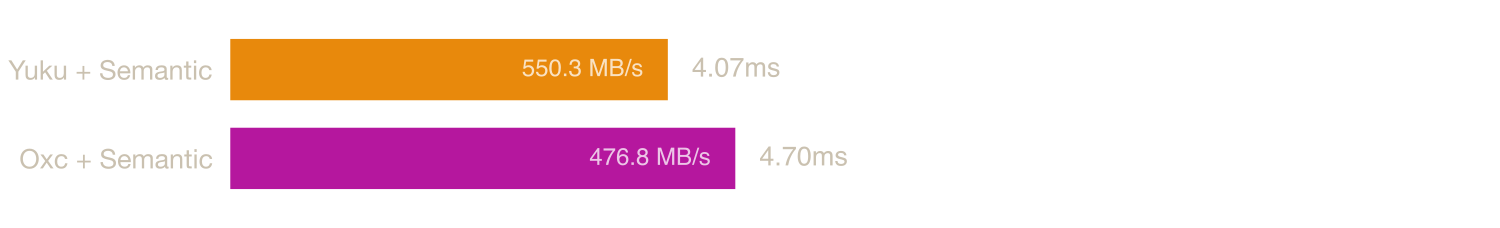
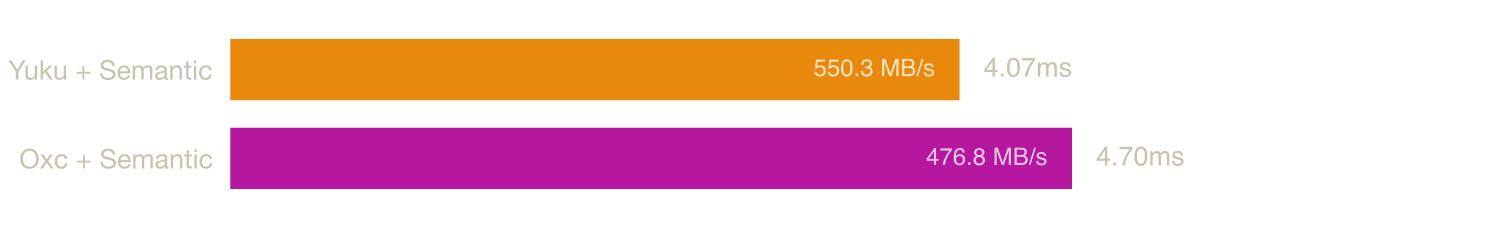
scale charts to small timings

Changed region(s): [[0.368, 0.5526, 0.7973, 0.8289], [0.3373, 0.1535, 0.736, 0.4605]]

diff --git a/scripts/generate-readme.ts b/scripts/generate-readme.ts
@@ -144,9 +144,9 @@ async function generateChart(
   const colors = data.map((e) => CHART_COLORS[e.key] ?? "#888888");
 
   const maxTime = Math.max(...medianData);
-  const niceSteps = [10, 20, 25, 50, 100, 200, 250, 500];
   const rawStep = maxTime / 4;
-  const step = niceSteps.find((s) => s >= rawStep) || Math.ceil(rawStep / 100) * 100;
+  const magnitude = 10 ** Math.floor(Math.log10(rawStep));
+  const step = [1, 2, 2.5, 5, 10].map((s) => s * magnitude).find((s) => s >= rawStep)!;
   const chartMax = Math.ceil(maxTime / step) * step;
 
   const dpr = 3;
